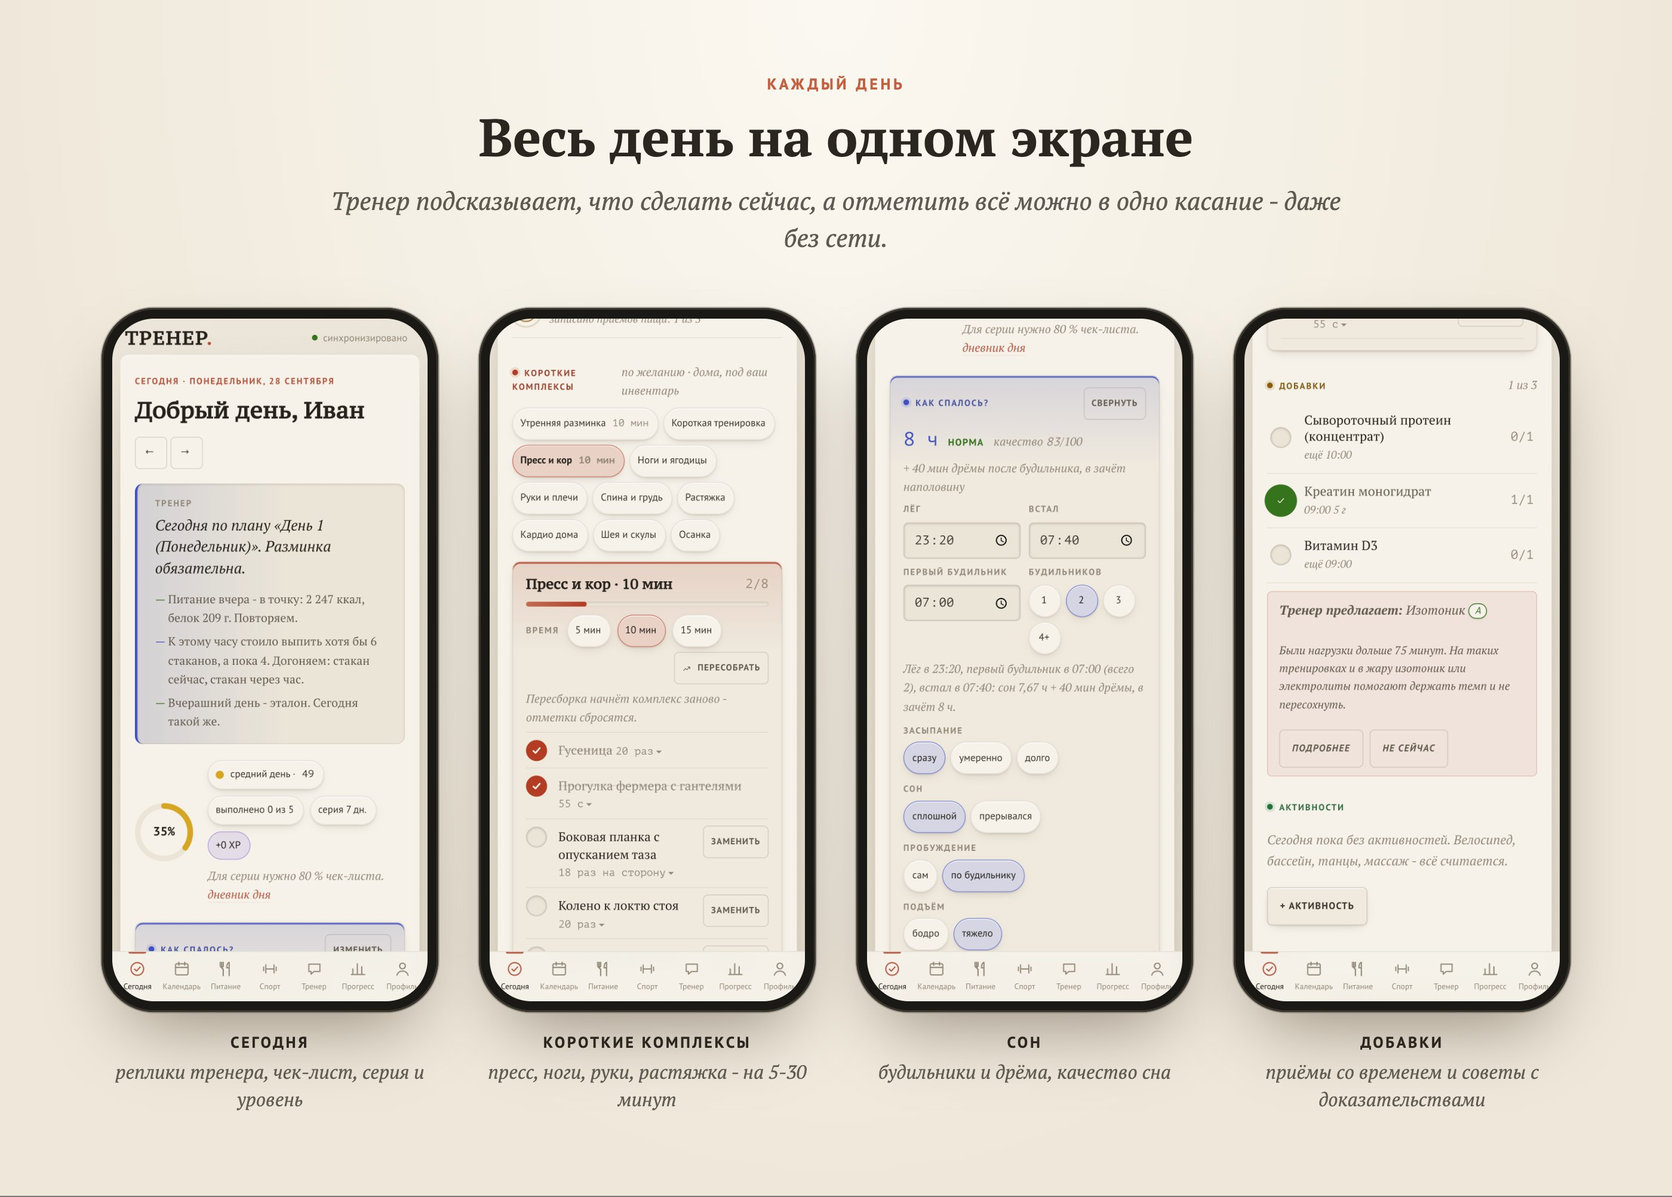
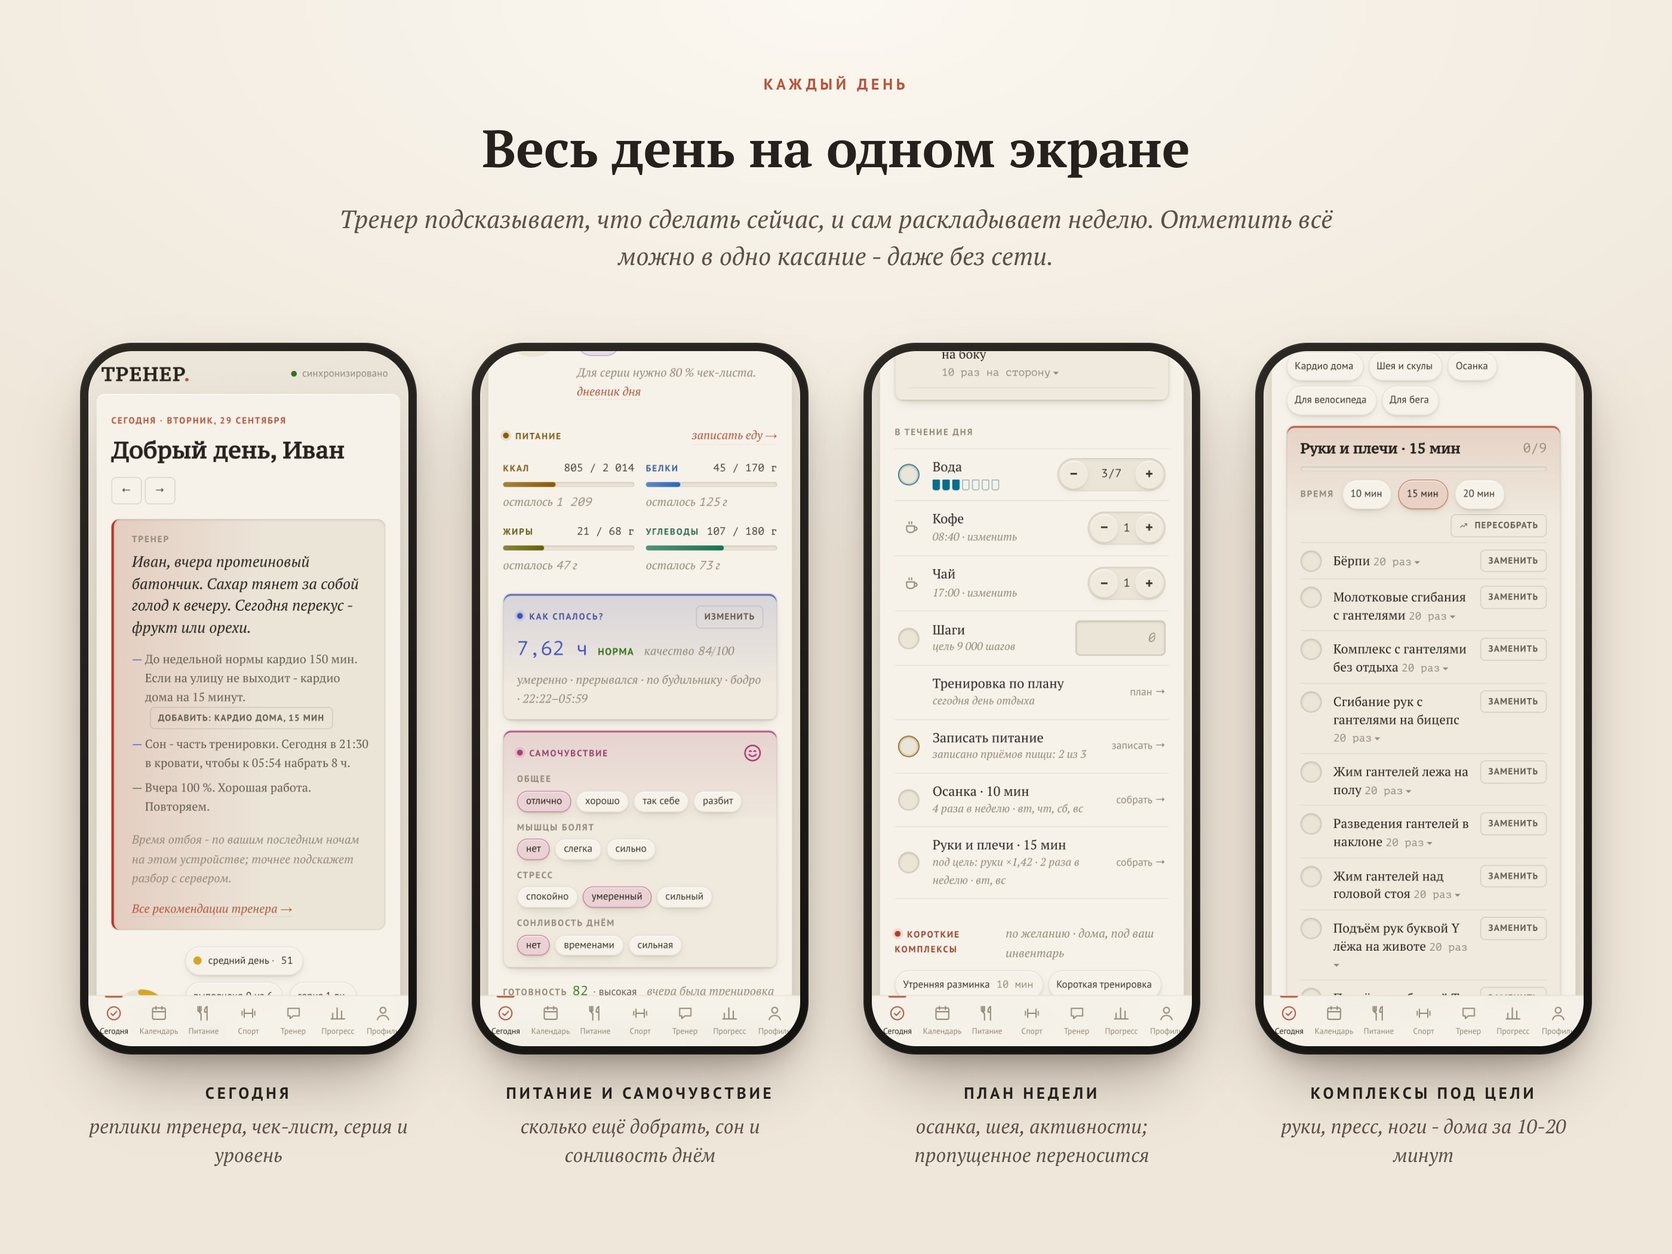
README: новые слайды - план недели, правка еды, товары из магазинов, рекомендации тренера
- обложка, «Каждый день» и «Питание и тренировки» пересняты на демо-данных Ивана и Марии
- новый слайд и раздел «Рекомендации тренера»; план недели, домашние комплексы под цели, свои БЖУ
- рекомендации: цели-привычки (вода, шаги, сон) не повторяются в «Весе и целях»

Changed region(s): [[0.0311, 0.2473, 0.9632, 0.9272], [0.1864, 0.0618, 0.8079, 0.2164]]

diff --git a/app/static/views/advice.js b/app/static/views/advice.js
@@ -132,7 +132,8 @@ function body(uid) {
   for (const g of safe(() => GL.metricGoals(uid), [])) {
     const pr = safe(() => GL.progress(g, uid));
     const m = GL.metric(g.metric);
-    if (!pr || !m || pr.status === 'nodata' || pr.status === 'early') continue;
+    // привычки (вода, шаги, сон, белок) разобраны в своих разделах - здесь только тело и результаты
+    if (!pr || !m || m.group === 'habit' || pr.status === 'nodata' || pr.status === 'early') continue;
     if (pr.status === 'behind') out.push(R('warn', `${m.label}: ${pr.label}.`, m.hint?.[g.to > g.from ? 'up' : 'down'] || ''));
     else if (pr.status === 'done') out.push(R('good', `${m.label}: цель достигнута.`, 'Поставьте следующую ступень в «Целях».'));
   }

diff --git a/README.md b/README.md
@@ -26,12 +26,14 @@
 ## Возможности
 
 ### «Сегодня»
-- **Чек-лист дня**: утренняя разминка, вода (стаканы под вашу норму, в день тренировки больше), шаги, тренировка по плану, питание. Свои пункты - в профиле.
+- **Чек-лист дня**: утренняя разминка, вода (стаканы под вашу норму или цель, в день тренировки больше), шаги, тренировка по плану, питание. Свои пункты - в профиле.
+- **План недели**: тренер сам раскладывает по дням то, что должно быть «n раз в неделю» - осанку, шею, ваши активности (велосипед, бассейн) и **домашние комплексы под цели** (например, «руки ×1,4» - «Руки и плечи» дважды в неделю в дни без зала). Пропущенное не пропадает: план каждый день пересчитывается и переносит его на оставшиеся дни недели.
+- **Питание на «Сегодня»**: калории, белки, жиры и углеводы против нормы и сколько ещё осталось добрать.
 - **Тренер**: реплики на выбранный тон - мягкий друг, тренер или суровый сержант. Хвалит и ругает за дело, помнит вчерашний день, обращается по имени и в нужном роде. Может предложить действие кнопкой, например «Добавить: короткая тренировка, 20 мин», если неделя недобрана.
 - **Утренняя разминка** собирается каждый день заново под выбранное время; любимые упражнения можно закрепить.
 - **Короткие комплексы на выбор**: короткая тренировка, пресс и кор, ноги и ягодицы, руки и плечи, спина и грудь, растяжка, кардио дома, шея и скулы, осанка - на 5-30 минут, под ваш домашний инвентарь.
 - **Сон**: во сколько лёг и встал, засыпание, пробуждение, подъём. **Несколько будильников**: время первого и сколько их было - дрёма после будильника засчитывается наполовину, тренер советует один будильник на реальное время подъёма.
-- **Самочувствие, стресс, мышцы** → **готовность дня**: тренировку можно облегчить, заменить восстановлением или перенести - недельный объём сохранится.
+- **Самочувствие, стресс, мышцы, сонливость днём** → **готовность дня**: тренировку можно облегчить, заменить восстановлением или перенести - недельный объём сохранится.
 - **Тип дня**: болезнь, отдых, особый день, читмил (тренер разрешит его, только если неделя прошла ровно).
 - **Чай и кофе**: каждая чашка со временем - тренер сравнивает кофеин после 14:00 со сном.
 - **Витамины и добавки**: отметки приёмов со временем и дозой.
@@ -39,7 +41,7 @@
 - **Активности**: больше 100 видов - бег, велосипед, плавание, бокс, ММА, борьба, джиу-джитсу, фехтование, хоккей, теннис и падел, скалолазание, воркаут, тяжёлая атлетика, танцы, йога, горные лыжи, сёрфинг и многое другое, с калориями по MET (Compendium of Physical Activities). Сначала показываются те, что вы выбираете чаще.
 - **«Для вашего спорта»**: если вы занимаетесь каким-то видом, тренер собирает комплекс в его поддержку - например, для бокса кор с ротацией, плечи и шея, для бега ягодицы и стопы, для скалолазания жимы как противовес - и предлагает его в свободный день. Программа от ИИ тоже подтягивает эти зоны.
 
-<p align="center"><img src="docs/screenshots/day.jpg" alt="Сегодня, короткие комплексы, сон, добавки"></p>
+<p align="center"><img src="docs/screenshots/day.jpg" alt="Сегодня, питание и самочувствие, план недели, комплекс под цели"></p>
 
 ### Питание
 - Пишете как есть: «гречка 200 г, 2 яйца, кофе с молоком», «тарелка борща». Знакомое считается **сразу по справочнику** (≈ 1400 продуктов с порциями и ≈ 11 600 товаров из магазинов с брендами) и памяти тренера - без сети и без ИИ; новое по кнопке разбирает ИИ и запоминает.
@@ -58,8 +60,9 @@
 - **Кардио**: недельная норма по целям, любимые виды и места, тренажёры в зале и дома, прогулки.
 - **Разгрузочная неделя** одной кнопкой, с отменой.
 - Тренировка «на любой случай» из генератора: есть 15 минут, болит колено, нет инвентаря.
+- **Домашние комплексы под цели** в дни без зала: зоны берутся из целей (руки, пресс, ноги, спина); если тренировок по программе меньше нормы - тренер добирает короткими тренировками.
 
-<p align="center"><img src="docs/screenshots/food.jpg" alt="Питание, записать снова, тренировка, программа"></p>
+<p align="center"><img src="docs/screenshots/food.jpg" alt="Питание, правка записи, товары из магазинов, тренировка"></p>
 
 ### Витамины и добавки (по желанию)
 - **Справочник** из 64 позиций - протеины, креатин, аминокислоты, витамины, минералы, омега-3, изотоники, «жиросжигатели» - с **силой доказательств** (A - сильные, B - умеренные, C - слабые, D - пользы не доказано) и источниками (ISSN, EFSA, NIH, Cochrane), обычной дозой, **безопасным дневным пределом**, противопоказаниями и предупреждениями.
@@ -67,6 +70,11 @@
 - Отметки приёмов со временем и дозой; **протеин и спортпит идут в БЖУ дня** по фактическим граммам.
 - Проверка доз против безопасного предела, противопоказаний из профиля и лекарств.
 - **Советы тренера - только с доказательностью A/B и по вашим данным**: протеин при недоборе белка, креатин при силовых целях, проверка витамина D осенью и зимой, изотоник на долгих нагрузках, омега-3 при редкой рыбе, B12 при вегетарианстве. Всегда с оговоркой «обсудите с врачом».
+
+### Рекомендации тренера
+Все советы в одном месте: питание (калории, белок, углеводы и жиры против нормы, поздняя еда), вода (в том числе если ваша цель ниже расчётной), сон (норма, режим, дрёма после будильника), активность (шаги, кардио, недельный объём), тренировки (что сделано, что осталось в плане недели, пора ли разгрузка), вес и цели, самочувствие, добавки и заметные связи из анализа. Сверху - «Главное сейчас»: что поправить в первую очередь. Считается на устройстве по записям за неделю и обновляется само, как только появляются новые данные.
+
+<p align="center"><img src="docs/screenshots/advice.jpg" alt="Рекомендации тренера и свои нормы"></p>
 
 ### Прогресс и анализ
 - Вес и замеры (грудь, талия, живот, бёдра, руки и ноги по отдельности), графики, **цели в цифрах** с прогнозом и реалистичным сроком.
@@ -89,7 +97,7 @@
 <p align="center"><img src="docs/screenshots/coach.jpg" alt="Тёмная тема, чат, вместе, профиль"></p>
 
 ### Профиль
-Параметры, телосложение и особенности, цели и срок, ограничения по здоровью, травмы, диета, аллергии, лекарства, цикл (учитывается в нагрузке и весе), график и время на тренировки, активности, инвентарь, кардио, «мои упражнения», питание, напоминания, тон тренера, **режим ИИ** (включена / выключена), нормы (формулы + комментарий ИИ), чек-лист, тема, экспорт данных.
+Параметры, телосложение и особенности, цели и срок, ограничения по здоровью, травмы, диета, аллергии, лекарства, цикл (учитывается в нагрузке и весе), график и время на тренировки, активности, инвентарь, кардио, «мои упражнения», питание, напоминания, тон тренера, **режим ИИ** (включена / выключена), нормы (формулы + комментарий ИИ; **свои БЖУ** поверх расчёта - в профиле или по договорённости с тренером в чате, калории пересчитываются сами), чек-лист, тема, экспорт данных.
 
 ### «Здоровье» iPhone и Apple Watch
 Команда iOS отправляет на ваш компьютер шаги, активные калории, сон, вес, пульс в покое и HRV (для готовности дня). **Готовую команду** с вашим адресом и токеном сервер на Mac собирает и подписывает сам - кнопка «Добавить команду на iPhone» в профиле; остаётся одна автоматизация «каждый день в 22:30 - запустить команду» и один раз разрешить в настройках «Быстрых команд» отправку больших объёмов данных (шаги идут отдельными замерами - так сервер убирает двойной счёт iPhone и часов). Цикл добавляется в команду вручную (шаг в инструкции). Тренировки с часов встроенными действиями «Команд» не читаются - их можно добавить через стороннее приложение (например Toolbox Pro), сервер их принимает. Инструкция - [docs/HEALTH-SHORTCUT.md](docs/HEALTH-SHORTCUT.md).
